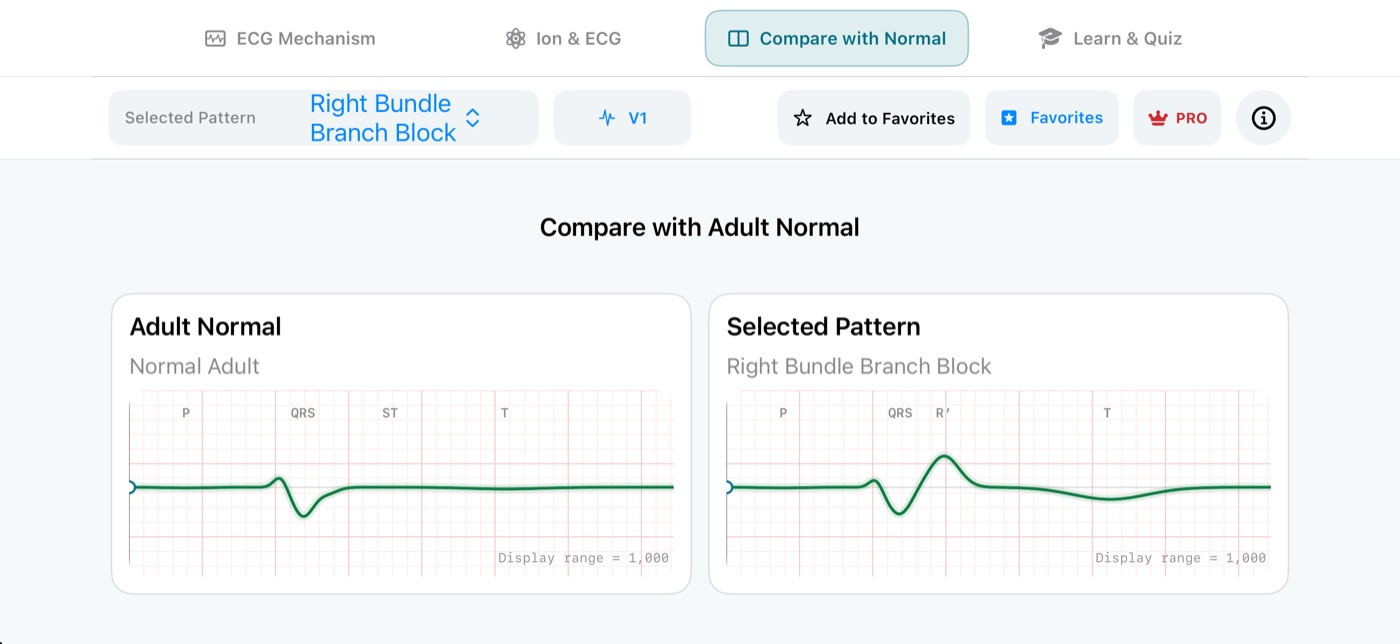
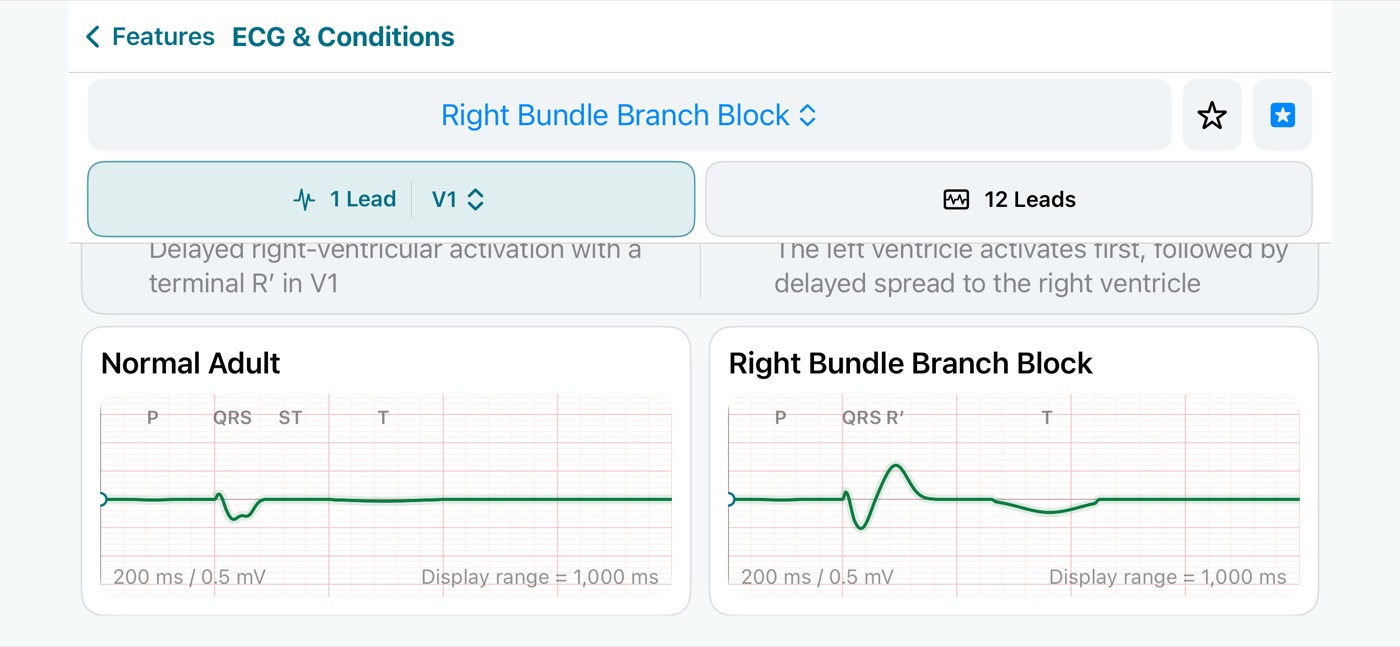
Update ECG Vector website for ion and condition learning

diff --git a/ja/apps/ecg-vector/support/index.html b/ja/apps/ecg-vector/support/index.html
@@ -20,16 +20,16 @@
   <a class="skip-link" href="#main">本文へ移動</a>
   <header class="site-header"><nav class="nav-wrap" aria-label="メインナビゲーション"><a class="brand" href="/ja/"><span class="brand-mark">N</span><span>Nakano Lab Software</span></a><div class="nav-links"><a href="/ja/apps/ecg-vector/">ECG Vector</a><a href="https://apps.apple.com/app/ecg-vector/id6798066790">App Store</a><a href="/ja/apps/ecg-vector/privacy/">プライバシー</a><a class="language-link" href="/en/apps/ecg-vector/support/" lang="en" data-language-link="en">EN</a></div></nav></header>
   <main id="main" class="container document-layout">
-    <aside class="doc-nav" aria-label="ページ内目次"><strong>このページ</strong><a href="#start">基本操作</a><a href="#reading">3Dの読み方</a><a href="#breakdown">波形分解</a><a href="#display">表示と視点</a><a href="#ion">イオンと心電図</a><a href="#pro">無料版とPro</a><a href="#troubleshooting">よくある問題</a><a href="#contact">お問い合わせ</a></aside>
+    <aside class="doc-nav" aria-label="ページ内目次"><strong>このページ</strong><a href="#start">基本操作</a><a href="#reading">3Dの読み方</a><a href="#breakdown">波形分解・2誘導比較</a><a href="#display">表示と視点</a><a href="#ion">イオンと心電図</a><a href="#conditions">病態と心電図</a><a href="#pro">無料版とPro</a><a href="#troubleshooting">よくある問題</a><a href="#contact">お問い合わせ</a></aside>
     <article class="document">
       <p class="breadcrumbs"><a href="/ja/">Nakano Lab Software</a> / <a href="/ja/apps/ecg-vector/">ECG Vector</a> / サポート</p>
       <h1>ECG Vector<br>サポート</h1>
-      <p class="updated">更新日: 2026年9月24日 · 対応: macOS 14以降／iOS・iPadOS 17以降</p>
+      <p class="updated">更新日: 2026年10月4日 · 対応: macOS 14以降／iOS・iPadOS 17以降</p>
       <p>ECG Vectorは、心臓内の電気活動と各誘導に記録される波形の関係を学ぶための教育用シミュレータです。診断、治療判断、患者固有の波形予測には使用できません。</p>
 
       <h2 id="start">1. 基本操作</h2>
       <ol>
-        <li>上部の「心電図のしくみ」「イオンと心電図」「正常と比較」「学習・クイズ」から、学びたい画面を選びます。</li>
+        <li>「心電図のしくみ」「イオンと心電図」「病態と心電図」「学習・クイズ」から、学びたい画面を選びます。Mac・iPadは上部のタブ、iPhoneは起動時の機能一覧から選択します。iPhoneでは左上の「機能一覧」で戻れます。</li>
         <li>「心電図のしくみ」では、波形モデルから成人正常、右脚ブロック、小児正常、または学びたい典型波形を選びます。</li>
         <li>12誘導一覧の波形カードを選ぶと、その誘導が3Dの誘導軸と拡大波形へ反映されます。</li>
         <li>再生ボタンで開始し、速度メニューから0.05〜1.0倍を選びます。時間バーを動かすと再生が一時停止し、任意の時相を確認できます。</li>
@@ -43,29 +43,37 @@
       <h3>微小双極子と心起電力</h3>
       <p>波面の両側には相対的な細胞外電位の「−」と「＋」が生じます。局所的な矢印は−から＋へ向かう微小双極子です。同方向の成分は加算され、反対方向は相殺され、残った橙色の矢印がその時刻の心起電力 M(t) になります。</p>
       <h3>誘導軸と投影</h3>
-      <p>灰青色の矢印は誘導のマイナス極からプラス極へ向かう誘導軸 L、緑色の矢印はM(t)をLへ投影した成分です。M(t)がプラス極側を向くと波形は上向き、マイナス極側を向くと下向きになります。</p>
+      <p>誘導軸 Lはマイナス極からプラス極へ向かいます。投影矢印は心起電力 M(t) の誘導軸方向の成分で、プラス極側なら波形は上向き、反対側なら下向きです。矢印の長さは単位方向への射影の大きさ、波形電位 V(t) = M(t) · L は誘導の感度も反映した値です。2誘導比較では、2つの誘導軸と投影を色で区別できます。</p>
       <h3>収縮</h3>
       <p>心房・心室の短縮と小さなねじれは機械的収縮です。収縮は電気的脱分極より少し遅れて起こりますが、それ自体を心電図電位へ別成分として加えてはいません。</p>
 
       <h2 id="breakdown">3. 波形分解と2誘導比較</h2>
-      <p>「波形を分解」を選ぶと、ひとつの起電力成分を現在の誘導と比較誘導へ投影した破線、および全成分を合計した計測波形を表示します。成分選択ボタンから心房興奮、中隔興奮、心室主興奮、遅延成分、再分極などを切り替えられます。</p>
+      <p>「心電図のしくみ」の上部で「1誘導」「2誘導」「12誘導」を切り替えます。「1誘導」では選択した誘導を拡大し、波形分解で起電力成分を選べます。「2誘導」では2つの誘導を選び、同じ時刻の波形と3Dの誘導軸・投影を見比べます。「12誘導」は同期した標準12誘導の一覧です。</p>
+      <p>波形分解では、破線が選択成分、実線が全成分を合計した波形です。心房興奮、中隔興奮、心室主興奮、遅延成分、再分極などを切り替えて、どの成分が波形を作るか確認できます。</p>
       <p>山の数は興奮の回数ではありません。各時刻のベクトルが誘導軸へどの向き・どの強さで投影されたかの時間変化です。同じ電気活動でも、誘導軸が変わると1峰性、2峰性、陽性、陰性の違いが生じます。</p>
 
       <h2 id="display">4. 表示項目、断面、透明度</h2>
       <p>3Dパネル内の「表示」を開くと、断面／外観、心臓、内部構造、刺激伝導系、電気活動、機械的収縮、誘導計測、電極などを個別に表示・非表示できます。透明度も同じパネルで調整できます。</p>
       <ul><li>初期状態は断面で、内部構造と電極は非表示です。</li><li>凡例を選ぶと、対応する3D要素を強調できます。</li><li>方位コンパスの右・左・上・下・前・後は患者基準です。</li><li>正面の電極図は患者と向かい合った図なので、画面左が患者右、画面右が患者左です。</li></ul>
+      <p>標準12誘導にはRA・LA・LL・RLとV1〜V6の10電極を使います。RLは中性電極で、標準誘導の電位差やWilson中心電極の計算には加えません。本アプリではRLを移動しても理想化した波形は変わらず、実機の雑音除去回路は再現していません。</p>
 
       <h2 id="ion">5. イオンと心電図</h2>
-      <p>「イオンと心電図」では、ガイド例を選ぶとイオン電流または細胞外電解質の変化、心室活動電位、PR・QRS・QTなどの指標、選択誘導の波形が一緒に更新されます。たとえば「後期ナトリウム電流増加」では、活動電位の延長からQT延長へ至る流れを確認できます。</p>
-      <p>各表示は因果関係を理解するための単純化された教育用モデルであり、個別の薬剤効果、診断、治療判断を予測するものではありません。</p>
+      <p>「プリセットを選択」から代表例を選びます。たとえば「遅延Na電流増加」では、活動電位とQTが長くなるモデルの流れを確認できます。Proでは主要イオン電流と細胞外K⁺・イオン化Ca²⁺・Na⁺・H⁺（pH）を自由に調整し、1誘導／12誘導で基準と変更後を比較できます。iPhoneでも心電図を表示したまま操作できます。</p>
+      <p>「基準との違い」は全設定を合わせた数値の結果と、各項目を単独で変えたときの作用を分けて示します。複数の設定では作用が相殺することがあります。心電図の下にある「病気・病態とのつながり」で、低Ca²⁺や高K⁺などの代表例との関連を確認できます。高K⁺例にはP波平低化・PR延長も含みます。</p>
+      <p>「定量モデルの出力」は、Nernst式などによる細胞レベルの計算値と、全心臓の心電図への教育用推定を分けています。通常の臨床的Na⁺範囲では心電図への直接作用が小さく、波形がほとんど変わらない場合があります。pH単独の再分極作用は一定方向へ換算せず、未評価としています。</p>
+      <p>このモデルは患者固有の予測ではなく、表示する「モデル範囲」も生理学的正常範囲や信頼区間ではありません。計算の制限や教育目的の注意事項は、アプリの情報ボタンから「このアプリについて」で確認できます。</p>
 
-      <h2 id="pro">6. 無料版とECG Vector Pro</h2>
-      <p>無料版では、成人正常と右脚ブロック、標準12誘導、固定された標準電極位置、正常比較・クイズの体験、お気に入り、イオンと心電図の4つのガイド例を利用できます。</p>
-      <p>ECG Vector Proは買い切りの非消耗型購入です。イオン電流・電解質の自由調整と同期12誘導表示、小児・その他の典型的な臨床波形、任意誘導、電極位置編集と誤配置、正常比較・クイズ全編を解放します。サブスクリプションではありません。</p>
+      <h2 id="conditions">6. 病態と心電図</h2>
+      <p>病態や参考例を選び、成人正常と「1誘導」または「12誘導」で比較します。波形上の特徴とその原因の説明を読み、同じ時間軸でどこが違うかを確認してください。12誘導では左列にI・II・III・aVR・aVL・aVF、右列にV1〜V6を並べています。</p>
+      <p>小児正常は5歳頃の代表例です。発熱例は洞性頻脈、高BMI体格は集団で見られる体格の傾向を示す参考例で、体温や体重だけから個人の心電図を予測するものではありません。病態例も実患者の診断基準ではありません。</p>
+
+      <h2 id="pro">7. 無料版とECG Vector Pro</h2>
+      <p>無料版では、成人正常と右脚ブロック、標準12誘導、固定された標準電極位置、「病態と心電図」・クイズの体験、お気に入り、イオンと心電図の4つのガイド例を利用できます。</p>
+      <p>ECG Vector Proは買い切りの非消耗型購入です。イオン電流・細胞外イオン・pHの自由調整と同期12誘導表示、小児・その他の病態例、任意誘導、電極位置編集と誤配置、比較・クイズ全編を解放します。サブスクリプションではありません。</p>
       <h3>購入する</h3><ol><li>上部の王冠／「PRO」を選びます。</li><li>Appleから価格が読み込まれるまで待ちます。</li><li>価格付き購入ボタンを選び、Appleの購入画面を完了します。</li></ol>
       <h3>購入を復元する</h3><p>購入時と同じApple AccountでサインインしたMac、iPhone、iPadからPro画面を開き、「購入を復元」を選びます。端末間の反映に少し時間がかかる場合があります。</p>
 
-      <h2 id="troubleshooting">7. よくある問題</h2>
+      <h2 id="troubleshooting">8. よくある問題</h2>
       <h3>購入ボタンがなく、「購入情報を再読み込み」と「購入を復元」だけが表示される</h3>
       <p>StoreKitが製品情報を取得できていない状態です。通信を確認し、App StoreへApple Accountでサインインしていること、アプリが最新であること、購入が利用可能な国・地域であることを確認してください。少し待ってから「購入情報を再読み込み」を選びます。TestFlight版の購入はAppleのテスト環境で処理されます。</p>
       <h3>購入済みなのにProが有効にならない</h3><p>購入時と同じApple Accountを確認し、「購入を復元」を実行してください。その後アプリを終了して開き直します。購入完了が保留中の場合は、Apple側の承認後に反映されます。</p>
@@ -73,7 +81,7 @@
       <h3>表示パネルの上側を選べない</h3><p>アプリを最新バージョンへ更新してください。パネルは画面内に固定され、内容をスクロールできます。改善しない場合は端末の表示拡大設定と画面の向きを添えてお問い合わせください。</p>
       <h3>言語を変更したい</h3><p>ECG Vectorは端末またはアプリごとの言語設定に従います。設定アプリの「ECG Vector」→「言語」から、対応する言語を選んでください。</p>
 
-      <h2 id="contact">8. お問い合わせ</h2>
+      <h2 id="contact">9. お問い合わせ</h2>
       <p>問題を報告するときは、患者情報や個人情報を含めず、ECG Vectorのバージョンとビルド、端末とOS、選択した波形モデルと誘導、問題が起きるまでの操作、表示されたメッセージをお知らせください。</p>
       <div class="contact-box"><strong>ECG Vector Support</strong><br>運営者: Takashi Nakano<br>メール: <a href="mailto:nakano.prog@gmail.com">nakano.prog@gmail.com</a></div>
     </article>

diff --git a/en/apps/ecg-vector/support/index.html b/en/apps/ecg-vector/support/index.html
@@ -20,48 +20,56 @@
   <a class="skip-link" href="#main">Skip to content</a>
   <header class="site-header"><nav class="nav-wrap" aria-label="Main navigation"><a class="brand" href="/en/"><span class="brand-mark">N</span><span>Nakano Lab Software</span></a><div class="nav-links"><a href="/en/apps/ecg-vector/">ECG Vector</a><a href="https://apps.apple.com/app/ecg-vector/id6798066790">App Store</a><a href="/en/apps/ecg-vector/privacy/">Privacy</a><a class="language-link" href="/ja/apps/ecg-vector/support/" lang="ja" data-language-link="ja">日本語</a></div></nav></header>
   <main id="main" class="container document-layout">
-    <aside class="doc-nav" aria-label="On this page"><strong>On this page</strong><a href="#start">Getting started</a><a href="#reading">Reading the 3D view</a><a href="#breakdown">Waveform breakdown</a><a href="#display">Display and view</a><a href="#ion">Ion &amp; ECG</a><a href="#pro">Free and Pro</a><a href="#troubleshooting">Troubleshooting</a><a href="#contact">Contact</a></aside>
+    <aside class="doc-nav" aria-label="On this page"><strong>On this page</strong><a href="#start">Getting started</a><a href="#reading">Reading the 3D view</a><a href="#breakdown">Breakdown and two-lead comparison</a><a href="#display">Display and view</a><a href="#ion">Ion &amp; ECG</a><a href="#conditions">ECG &amp; Conditions</a><a href="#pro">Free and Pro</a><a href="#troubleshooting">Troubleshooting</a><a href="#contact">Contact</a></aside>
     <article class="document">
       <p class="breadcrumbs"><a href="/en/">Nakano Lab Software</a> / <a href="/en/apps/ecg-vector/">ECG Vector</a> / Support</p>
       <h1>ECG Vector<br>Support</h1>
-      <p class="updated">Updated September 24, 2026 · Requires macOS 14+ or iOS/iPadOS 17+</p>
+      <p class="updated">Updated October 4, 2026 · Requires macOS 14+ or iOS/iPadOS 17+</p>
       <p>ECG Vector is an educational simulator for learning how electrical activity in the heart relates to the waveform recorded by each lead. Do not use it for diagnosis, treatment decisions, or patient-specific waveform prediction.</p>
 
       <h2 id="start">1. Getting started</h2>
-      <ol><li>Choose ECG Mechanism, Ion &amp; ECG, Compare with Normal, or Learn &amp; Quiz from the main tabs.</li><li>In ECG Mechanism, choose Adult Normal, Right Bundle Branch Block, Pediatric Normal, or another typical pattern under Waveform Model.</li><li>Select a waveform card in the 12-lead overview. That lead becomes the 3D lead axis and enlarged trace.</li><li>Select Play, then choose 0.05× to 1.0× under Speed. Dragging the timeline pauses playback and moves every waveform cursor to the selected time.</li><li>Use the two 10 ms controls to step backward or forward while paused.</li><li>Drag the 3D view to rotate it, and pinch or scroll to zoom. Select Reset View to return to the standard orientation.</li></ol>
+      <ol><li>Choose ECG Mechanism, Ion &amp; ECG, ECG &amp; Conditions, or Learn &amp; Quiz. Use the top tabs on Mac and iPad, or the feature menu shown at launch on iPhone. On iPhone, the upper-left back button returns to the feature menu.</li><li>In ECG Mechanism, choose Adult Normal, Right Bundle Branch Block, Pediatric Normal, or another typical pattern under Waveform Model.</li><li>Select a waveform card in the 12-lead overview. That lead becomes the 3D lead axis and enlarged trace.</li><li>Select Play, then choose 0.05× to 1.0× under Speed. Dragging the timeline pauses playback and moves every waveform cursor to the selected time.</li><li>Use the two 10 ms controls to step backward or forward while paused.</li><li>Drag the 3D view to rotate it, and pinch or scroll to zoom. Select Reset View to return to the standard orientation.</li></ol>
 
       <h2 id="reading">2. Reading the 3D view</h2>
       <h3>Excitation and repolarization</h3><p>The yellow luminous trail approximates the depolarization wavefront. The pink trail approximates ventricular repolarization—the electrical recovery associated with the T wave, not a second excitation.</p>
       <h3>Microdipoles and the cardiac vector</h3><p>Relative extracellular − and + regions appear across a wavefront. Each local arrow points from − to + and represents a microdipole. Components in the same direction add, opposing components cancel, and the remaining orange arrow is the cardiac vector M(t).</p>
-      <h3>Lead axis and projection</h3><p>The blue-gray arrow is lead axis L, pointing from the negative to the positive electrode. The green arrow is the projection of M(t) onto L. A vector toward the positive electrode produces an upward deflection; a vector toward the negative electrode produces a downward deflection.</p>
+      <h3>Lead axis and projection</h3><p>Lead axis L points from the negative to the positive electrode. The projection arrow shows the component of M(t) along that axis: toward the positive electrode gives an upward deflection, and the opposite direction gives a downward deflection. Its length is the magnitude of the projection onto the unit direction; ECG voltage V(t) = M(t) · L also includes lead sensitivity. Two-lead comparison uses different colors for each lead axis and its projection.</p>
       <h3>Contraction</h3><p>Shortening and slight twisting of the atria and ventricles represent mechanical contraction. Contraction follows electrical depolarization with a delay and is not added as a separate ECG voltage component.</p>
 
       <h2 id="breakdown">3. Waveform breakdown and two-lead comparison</h2>
-      <p>Select Break Down Waveform to project one source component into the current and comparison leads. Dashed traces show the selected component; solid traces show the recorded sum. Use the component selector to move among atrial excitation, septal excitation, main ventricular excitation, delayed components, and repolarization.</p>
+      <p>At the top of ECG Mechanism, choose the one-lead, two-lead, or 12-lead mode. One-lead mode enlarges the selected trace and offers component breakdown. Two-lead mode compares the waveforms and 3D lead-axis projections at the same time. The 12-lead mode shows synchronized standard ECG traces.</p>
+      <p>In component breakdown, dashed traces show the selected component and solid traces show the sum. Select atrial, septal, main ventricular, delayed, or repolarization components to explore their contribution to the waveform.</p>
       <p>The number of peaks is not the number of excitations. It is the time-varying result of projecting each vector onto a lead axis. The same electrical activity can therefore be monophasic, biphasic, positive, or negative in different leads.</p>
 
       <h2 id="display">4. Display items, cutaway, and opacity</h2>
       <p>Open Display inside the 3D panel to switch between Cutaway and Exterior and independently show or hide the heart, internal structures, conduction system, electrical activity, mechanical contraction, lead measurement, and electrodes. Heart opacity is in the same panel.</p>
       <ul><li>The default is Cutaway, with internal structures and electrodes hidden.</li><li>Selecting a legend entry highlights the matching element in 3D.</li><li>The orientation compass uses the patient’s right, left, superior, inferior, anterior, and posterior directions.</li><li>The front electrode map faces the patient: screen left is the patient’s right.</li></ul>
+      <p>A standard 12-lead ECG uses 10 electrodes: RA, LA, LL, RL, and V1–V6. RL is the neutral electrode, not part of the standard lead-voltage differences or Wilson central terminal. Moving RL does not change the idealized ECG in this app; the instrument’s noise-rejection circuitry is not simulated.</p>
 
       <h2 id="ion">5. Ion &amp; ECG</h2>
-      <p>Choose a guided example to update an ion current or extracellular electrolyte, the ventricular action potential, intervals such as PR, QRS, and QT, and the selected lead waveform together. For example, Increased Late Sodium shows the path from a prolonged action potential to QT prolongation.</p>
-      <p>These displays are simplified educational models for understanding causal relationships. They do not predict an individual drug effect, diagnosis, or treatment decision.</p>
+      <p>Choose a representative example from the preset selector. Increased Late Sodium, for example, shows the modeled link between a longer action potential and a longer QT. Pro allows free adjustment of major currents and extracellular K⁺, ionized Ca²⁺, Na⁺, and H⁺ (pH), with baseline and modified traces in one or 12 leads. The ECG stays visible while you adjust settings on iPhone.</p>
+      <p>Changes from baseline separates the combined numerical result from the effect of changing each factor alone. Multiple settings can offset one another. The condition links below the ECG explain representative low-calcium, high-potassium, and other examples. The high-potassium example also includes reduced P-wave amplitude and a longer PR.</p>
+      <p>Quantitative model output separates cellular calculations, including Nernst equilibrium potentials, from educational whole-heart ECG estimates. The direct ECG effect of Na⁺ alone is generally small within usual clinical ranges, so the trace may change very little. The direct repolarization effect of pH alone is not assigned a fixed direction and is marked as unmodeled.</p>
+      <p>This is not a patient-specific prediction model. The displayed model ranges are neither physiological normal ranges nor confidence intervals. Use the app’s information button to read About for the modeling limitations and educational-use notice.</p>
 
-      <h2 id="pro">6. Free access and ECG Vector Pro</h2>
+      <h2 id="conditions">6. ECG &amp; Conditions</h2>
+      <p>Choose a condition or reference example, then compare it with Adult Normal in one or 12 leads. Read the waveform features and their mechanisms while using the common time scale to identify differences. In the 12-lead comparison, I, II, III, aVR, aVL, and aVF form the left column, and V1–V6 form the right.</p>
+      <p>Pediatric Normal is a representative child around age five. The fever example shows sinus tachycardia, and the higher-BMI example illustrates population-level body-habitus tendencies—not a prediction from an individual’s temperature or weight alone. Condition examples are not diagnostic criteria.</p>
+
+      <h2 id="pro">7. Free access and ECG Vector Pro</h2>
       <p>The free version includes Adult Normal and Right Bundle Branch Block, all 12 standard ECG leads, fixed standard electrode positions, comparison and quiz samples, favorites, and four guided Ion &amp; ECG examples.</p>
-      <p>ECG Vector Pro is a one-time non-consumable purchase, not a subscription. It unlocks free adjustment of ion currents and electrolytes with synchronized 12-lead response, pediatric and other clinical patterns, custom leads, electrode editing and misplacement presets, and the complete comparison and quiz libraries.</p>
+      <p>ECG Vector Pro is a one-time non-consumable purchase, not a subscription. It unlocks free adjustment of ion currents, extracellular ions, and pH with synchronized 12-lead response, pediatric and other condition examples, custom leads, electrode editing and misplacement presets, and the complete comparison and quiz libraries.</p>
       <h3>Purchase Pro</h3><ol><li>Select the crown or PRO control in the top bar.</li><li>Wait for Apple to load the localized price.</li><li>Select the price button and complete Apple’s purchase sheet.</li></ol>
       <h3>Restore a purchase</h3><p>On a Mac, iPhone, or iPad signed in with the Apple Account used for purchase, open the Pro screen and select Restore Purchases. Syncing across devices can take a short time.</p>
 
-      <h2 id="troubleshooting">7. Troubleshooting</h2>
+      <h2 id="troubleshooting">8. Troubleshooting</h2>
       <h3>Only Reload Purchase Information and Restore Purchases are shown</h3><p>StoreKit has not loaded the product. Check your connection, confirm that the App Store is signed in, update ECG Vector, and confirm that the purchase is available in your country or region. Wait briefly, then select Reload Purchase Information. Purchases in TestFlight builds are handled in Apple’s test environment.</p>
       <h3>Pro is not active after purchase</h3><p>Confirm that you are using the same Apple Account, select Restore Purchases, then quit and reopen the app. A pending purchase activates after Apple approves it.</p>
       <h3>The 3D view is slow</h3><p>Open Display and hide internal structures, electrodes, or other overlays you do not need. Close the explanation and other demanding apps, then reopen ECG Vector.</p>
       <h3>The top items in the Display panel cannot be selected</h3><p>Update to the latest app version. The panel should remain fixed on screen while its contents scroll. If the issue remains, contact support with the device model, display zoom, and orientation.</p>
       <h3>Change the interface language</h3><p>ECG Vector follows the device or per-app language. Open Settings → ECG Vector → Language and choose a supported language.</p>
 
-      <h2 id="contact">8. Contact</h2>
+      <h2 id="contact">9. Contact</h2>
       <p>Do not include patient or personal information in a report. Include the ECG Vector version and build, device and OS, selected waveform model and lead, steps leading to the issue, and any message shown.</p>
       <div class="contact-box"><strong>ECG Vector Support</strong><br>Operator: Takashi Nakano<br>Email: <a href="mailto:nakano.prog@gmail.com">nakano.prog@gmail.com</a></div>
     </article>

diff --git a/ja/apps/ecg-vector/index.html b/ja/apps/ecg-vector/index.html
@@ -11,9 +11,9 @@
   </script>
   <meta charset="utf-8">
   <meta name="viewport" content="width=device-width, initial-scale=1">
-  <meta name="description" content="ECG Vectorは、3D心臓と12誘導心電図に加え、イオン電流・電解質から活動電位、QT時間、各誘導波形までをつなげて学べるMac・iPhone・iPad対応の教育用シミュレータです。">
+  <meta name="description" content="ECG Vectorは、3D心臓と12誘導心電図、イオン電流・細胞外イオンと活動電位、病態ごとの波形の特徴と原因をつなげて学ぶMac・iPhone・iPad対応の教育用シミュレータです。">
   <meta property="og:title" content="ECG Vector — 心電図学習シミュレータ">
-  <meta property="og:description" content="3D心臓、イオンチャネル、正常比較、クイズを通して、心電図がそう見える理由を学べます。">
+  <meta property="og:description" content="心電図のしくみ、イオンと心電図、病態と心電図、学習・クイズ。波形の違いと、その理由を4つの視点で学べます。">
   <meta property="og:type" content="website">
   <meta property="og:url" content="https://nakano-lab.github.io/ja/apps/ecg-vector/">
   <meta property="og:image" content="https://nakano-lab.github.io/assets/images/ecg-vector/ja/mac-simulation.jpg">
@@ -44,21 +44,21 @@
           <div class="meta-row"><span class="tag">macOS 14+</span><span class="tag">iPhone</span><span class="tag">iPad</span><span class="tag">iOS 17+</span><span class="tag">10言語対応</span></div>
         </div>
       </div>
-      <p class="lead">心臓内の興奮と心起電力ベクトル、イオン電流と活動電位、正常波形との違い、そして学習クイズを、4つの主要画面でつなげて学ぶ教育用シミュレータです。</p>
+      <p class="lead">心電図の形には、理由があります。3D心臓の興奮、イオンと活動電位、病態ごとの波形の特徴をつなげ、クイズで理解を確かめる教育用シミュレータです。</p>
       <div class="button-row"><a class="button primary" href="https://apps.apple.com/app/ecg-vector/id6798066790">App Storeで入手 <span aria-hidden="true">↗</span></a><a class="button" href="#features">機能を見る <span aria-hidden="true">↓</span></a><a class="button" href="/ja/apps/ecg-vector/support/">使い方・サポート</a></div>
     </section>
 
     <section class="section tinted" id="features">
       <div class="container">
-        <div class="section-head reveal"><p class="eyebrow">Four workspaces</p><h2 class="section-title">心電図のしくみを、4つの視点で。</h2><p class="section-copy">3Dの電気活動からイオンチャネル、正常比較、クイズまで、主要機能を同じメイン画面のタブで切り替えられます。</p></div>
+        <div class="section-head reveal"><p class="eyebrow">Four workspaces</p><h2 class="section-title">心電図のしくみを、4つの視点で。</h2><p class="section-copy">Mac・iPadでは上部のタブから、iPhoneでは起動時の機能一覧から、学びたい画面を選べます。</p></div>
         <div class="feature-grid">
           <article class="feature reveal"><span class="feature-number">01</span><h3>心電図のしくみ</h3><p>回転できる3D心臓で、興奮・再分極、心起電力、誘導軸への投影、12誘導波形を同じ時間軸に同期。1誘導の成分分解や2誘導比較で、波形がそう見える理由をたどれます。</p></article>
-          <article class="feature reveal"><span class="feature-number">02</span><h3>イオンと心電図</h3><p>ナトリウム・カルシウム・カリウム電流や細胞外電解質の変化が、心室活動電位、PR・QRS・QTなどの指標、選択誘導の波形へどう伝わるかを因果の流れで確認できます。</p></article>
-          <article class="feature reveal"><span class="feature-number">03</span><h3>正常と比較</h3><p>成人正常と右脚ブロックなどの典型波形を並べ、同じ誘導・同じ時間軸で比較。変化した区間と、その背景にある興奮伝播を見比べられます。</p></article>
-          <article class="feature reveal"><span class="feature-number">04</span><h3>学習・クイズ</h3><p>波形の特徴からモデルを見分ける問題で理解を確認。解答後は正常との差や注目すべき所見を、そのままシミュレーションで復習できます。</p></article>
-          <article class="feature reveal"><span class="feature-number">05</span><h3>正常・小児・典型波形</h3><p>成人正常、小児正常、心房細動、右脚・左脚ブロック、軸偏位、左室肥大、ST上昇などの単純化した典型例を切り替えられます。</p></article>
+          <article class="feature reveal"><span class="feature-number">02</span><h3>イオンと心電図</h3><p>主要なイオン電流と、細胞外K⁺・イオン化Ca²⁺・Na⁺・H⁺（pH）を調整。心室筋活動電位と体表心電図を見ながら「基準との違い」と病態とのつながりを確認できます。細胞の計算値と全心臓の推定値も区別して表示します。</p></article>
+          <article class="feature reveal"><span class="feature-number">03</span><h3>病態と心電図</h3><p>成人正常と代表的な病態を、1誘導または12誘導で並べて比較。共通の時間軸で波形の特徴を見つけ、どこが違うのか、なぜ変わるのかを解説で理解できます。</p></article>
+          <article class="feature reveal"><span class="feature-number">04</span><h3>学習・クイズ</h3><p>12誘導とリズム波形から代表的なモデルを見分け、理解を確認。解答後は所見とその仕組みを読み、シミュレーションで復習できます。</p></article>
+          <article class="feature reveal"><span class="feature-number">05</span><h3>病態と生理的な違い</h3><p>脚ブロック、心房細動、左室肥大のST・T変化、局在ST上昇などの模式例に加え、小児正常（5歳頃）、発熱時の洞性頻脈、高BMI体格の参考例も比較できます。</p></article>
           <article class="feature reveal"><span class="feature-number">06</span><h3>スロー再生とコマ送り</h3><p>0.05倍まで速度を落とし、一時停止、時間軸スクラブ、10 msコマ送りに対応。表示項目と心臓の透明度も同じパネルから調整できます。</p></article>
-          <article class="feature reveal"><span class="feature-number">07</span><h3>Mac・iPhone・iPad</h3><p>MacとiPadでは一覧性を生かし、iPhoneでは3D、解説、波形を同時に確認しやすい構成へ。日本語、英語を含む主要10言語に対応します。</p></article>
+          <article class="feature reveal"><span class="feature-number">07</span><h3>Mac・iPhone・iPad</h3><p>文字とボタンを大きくし、各画面の配置を整理。iPhoneでは機能一覧と戻るボタンで移動し、イオンを調整しながら心電図を確認できます。日本語・英語を含む10言語に対応します。</p></article>
         </div>
       </div>
     </section>
@@ -68,8 +68,8 @@
         <div class="section-head reveal"><p class="eyebrow">In the app</p><h2 class="section-title">3D、解説、波形を同じ視界に。</h2></div>
         <div class="screenshot-grid">
           <figure class="shot reveal"><img src="/assets/images/ecg-vector/ja/mac-simulation.jpg" alt="Mac版ECG Vectorで3D心臓、誘導軸、波形を表示している画面" width="1600" height="1000" loading="lazy"><figcaption>Mac — 3D心臓と選択誘導の波形を同期</figcaption></figure>
-          <figure class="shot portrait reveal"><img src="/assets/images/ecg-vector/ja/ipad-breakdown.jpg" alt="iPad版ECG Vectorでイオン電流から活動電位と心電図の変化を表示している画面" width="900" height="1200" loading="lazy"><figcaption>iPad — イオン電流から活動電位・QT・心電図へ</figcaption></figure>
-          <figure class="shot reveal"><img src="/assets/images/ecg-vector/ja/iphone-twelve-leads.jpg" alt="iPhone版ECG Vectorで右脚ブロックを成人正常と比較している画面" width="1400" height="644" loading="lazy"><figcaption>iPhone — 典型波形を成人正常と並べて比較</figcaption></figure>
+          <figure class="shot portrait reveal"><img src="/assets/images/ecg-vector/ja/ipad-breakdown.jpg" alt="iPad版のイオンと心電図で、遅延Na電流増加による活動電位・QTの変化と病態とのつながりを表示している画面" width="900" height="1200" loading="lazy"><figcaption>iPad — イオンの調整、基準との差、病態とのつながり</figcaption></figure>
+          <figure class="shot reveal"><img src="/assets/images/ecg-vector/ja/iphone-twelve-leads.jpg" alt="iPhone版の病態と心電図で、右脚ブロックと成人正常の波形および所見の説明を表示している画面" width="1400" height="647" loading="lazy"><figcaption>iPhone — 波形を比べ、特徴とその理由を学ぶ</figcaption></figure>
         </div>
       </div>
     </section>
@@ -77,8 +77,8 @@
     <section class="section tinted">
       <div class="container">
         <div class="split">
-          <article class="info-card reveal"><p class="eyebrow">Free</p><h3>主要機能を無料で体験</h3><p>成人正常と右脚ブロック、標準12誘導、固定された標準電極位置、正常比較・クイズの体験、お気に入り、イオンと心電図の4つのガイド例を利用できます。</p></article>
-          <article class="info-card reveal"><p class="eyebrow">ECG Vector Pro</p><h3>買い切りで学習範囲を拡張</h3><p>サブスクリプションではありません。イオン電流・電解質の自由調整と同期12誘導表示、小児・その他の典型疾患、任意誘導、電極位置編集と誤配置、正常比較・クイズ全編を解放します。</p></article>
+          <article class="info-card reveal"><p class="eyebrow">Free</p><h3>主要機能を無料で体験</h3><p>成人正常と右脚ブロック、標準12誘導、固定された標準電極位置、「病態と心電図」・クイズの体験、お気に入り、イオンと心電図の4つのガイド例を利用できます。</p></article>
+          <article class="info-card reveal"><p class="eyebrow">ECG Vector Pro</p><h3>買い切りで学習範囲を拡張</h3><p>サブスクリプションではありません。イオン電流・細胞外イオン・pHの自由調整と同期12誘導表示、小児・その他の病態例、任意誘導、電極位置編集と誤配置、比較・クイズ全編を解放します。</p></article>
         </div>
         <div class="button-row"><a class="button primary" href="https://apps.apple.com/app/ecg-vector/id6798066790">App Storeで入手 <span aria-hidden="true">↗</span></a><a class="button" href="/ja/apps/ecg-vector/support/">サポート</a><a class="button" href="/ja/apps/ecg-vector/privacy/">プライバシーポリシー</a></div>
       </div>

diff --git a/en/apps/ecg-vector/index.html b/en/apps/ecg-vector/index.html
@@ -11,9 +11,9 @@
   </script>
   <meta charset="utf-8">
   <meta name="viewport" content="width=device-width, initial-scale=1">
-  <meta name="description" content="ECG Vector is an educational simulator for Mac, iPhone, and iPad that connects a 3D heart and 12-lead ECG with ion currents, action potentials, QT changes, normal comparison, and quizzes.">
+  <meta name="description" content="ECG Vector is an educational simulator for Mac, iPhone, and iPad connecting a 3D heart and 12-lead ECG with ion currents, extracellular ions, action potentials, and the features and mechanisms of representative ECG patterns.">
   <meta property="og:title" content="ECG Vector — 3D Cardiac Lead Simulator">
-  <meta property="og:description" content="Learn why an ECG looks the way it does through a 3D heart, ion channels, normal comparison, and quizzes.">
+  <meta property="og:description" content="ECG Mechanism, Ion &amp; ECG, ECG &amp; Conditions, and Learn &amp; Quiz: explore waveform differences and the reasons behind them.">
   <meta property="og:type" content="website">
   <meta property="og:url" content="https://nakano-lab.github.io/en/apps/ecg-vector/">
   <meta property="og:image" content="https://nakano-lab.github.io/assets/images/ecg-vector/en/mac-simulation.jpg">
@@ -40,21 +40,21 @@
         <img class="product-icon" src="/assets/images/ecg-vector/icon.png" alt="ECG Vector icon" width="512" height="512">
         <div><h1 class="page-title">ECG Vector</h1><p class="page-subtitle">3D Cardiac Lead Simulator</p><div class="meta-row"><span class="tag">macOS 14+</span><span class="tag">iPhone</span><span class="tag">iPad</span><span class="tag">iOS 17+</span><span class="tag">10 languages</span></div></div>
       </div>
-      <p class="lead">Connect excitation and cardiac vectors, ion currents and action potentials, comparison with normal, and learning quizzes across four integrated workspaces.</p>
+      <p class="lead">Every ECG shape has a reason. Connect 3D cardiac activation, ions and action potentials, and the features of representative ECG patterns—then check your understanding with quizzes.</p>
       <div class="button-row"><a class="button primary" href="https://apps.apple.com/app/ecg-vector/id6798066790">Download on the App Store <span aria-hidden="true">↗</span></a><a class="button" href="#features">Explore the features <span aria-hidden="true">↓</span></a><a class="button" href="/en/apps/ecg-vector/support/">Help &amp; support</a></div>
     </section>
 
     <section class="section tinted" id="features">
       <div class="container">
-        <div class="section-head reveal"><p class="eyebrow">Four workspaces</p><h2 class="section-title">Understand the ECG from four angles.</h2><p class="section-copy">Move between 3D cardiac activity, ion channels, comparison with normal, and quizzes from the main workspace tabs.</p></div>
+        <div class="section-head reveal"><p class="eyebrow">Four workspaces</p><h2 class="section-title">Understand the ECG from four angles.</h2><p class="section-copy">Choose a workspace from the top tabs on Mac and iPad, or from the feature menu shown at launch on iPhone.</p></div>
         <div class="feature-grid">
           <article class="feature reveal"><span class="feature-number">01</span><h3>ECG Mechanism</h3><p>Synchronize excitation, repolarization, the cardiac vector, lead-axis projection, and all 12 leads with a rotatable 3D heart. Break down one lead or compare two to see why each waveform takes its shape.</p></article>
-          <article class="feature reveal"><span class="feature-number">02</span><h3>Ion &amp; ECG</h3><p>Follow how sodium, calcium, and potassium currents and extracellular electrolytes alter the ventricular action potential, ECG intervals such as QRS and QT, and lead-specific waveform morphology.</p></article>
-          <article class="feature reveal"><span class="feature-number">03</span><h3>Compare with Normal</h3><p>Place Adult Normal beside patterns such as Right Bundle Branch Block on the same lead and timeline. Compare the changed intervals with their underlying activation sequence.</p></article>
-          <article class="feature reveal"><span class="feature-number">04</span><h3>Learn &amp; Quiz</h3><p>Identify a model from its waveform features, then review the key findings and compare them directly in the simulator.</p></article>
-          <article class="feature reveal"><span class="feature-number">05</span><h3>Normal, pediatric, and typical patterns</h3><p>Switch among adult and pediatric normal ECGs and simplified examples of atrial fibrillation, bundle branch block, axis deviation, ventricular hypertrophy, and ST elevation.</p></article>
+          <article class="feature reveal"><span class="feature-number">02</span><h3>Ion &amp; ECG</h3><p>Adjust major ion currents and extracellular K⁺, ionized Ca²⁺, Na⁺, and H⁺ (pH). Watch the ventricular action potential and ECG while exploring changes from baseline and links to conditions. Cellular calculations are shown separately from whole-heart estimates.</p></article>
+          <article class="feature reveal"><span class="feature-number">03</span><h3>ECG &amp; Conditions</h3><p>Compare Adult Normal with a representative pattern in one lead or all 12 leads. A common time scale and explanations of the ECG features and their mechanisms help you see what changed—and why.</p></article>
+          <article class="feature reveal"><span class="feature-number">04</span><h3>Learn &amp; Quiz</h3><p>Identify a representative model from 12 leads and a rhythm strip. After answering, review the findings and their mechanisms, then explore them in the simulator.</p></article>
+          <article class="feature reveal"><span class="feature-number">05</span><h3>Conditions and physiological differences</h3><p>Explore illustrative bundle block, atrial fibrillation, LVH strain, and regional ST elevation, alongside a normal child around age five, fever-related sinus tachycardia, and a higher-BMI body-habitus reference.</p></article>
           <article class="feature reveal"><span class="feature-number">06</span><h3>Slow playback and stepping</h3><p>Slow time to 0.05×, pause, scrub, or step by 10 ms. Manage visible structures and heart opacity from one display panel.</p></article>
-          <article class="feature reveal"><span class="feature-number">07</span><h3>Mac, iPhone, and iPad</h3><p>Use the wider overview on Mac and iPad, or keep the 3D heart, explanation, and waveform together on iPhone. The interface supports 10 major languages.</p></article>
+          <article class="feature reveal"><span class="feature-number">07</span><h3>Mac, iPhone, and iPad</h3><p>Larger text and controls, with clearer layouts throughout. On iPhone, use the feature menu and back button, and keep the ECG visible while adjusting ions. The interface supports 10 languages, including Japanese and English.</p></article>
         </div>
       </div>
     </section>
@@ -64,8 +64,8 @@
         <div class="section-head reveal"><p class="eyebrow">In the app</p><h2 class="section-title">3D, explanation, and waveform in one view.</h2></div>
         <div class="screenshot-grid">
           <figure class="shot reveal"><img src="/assets/images/ecg-vector/en/mac-simulation.jpg" alt="ECG Vector for Mac showing the 3D heart, lead axis, and synchronized waveform" width="1600" height="1000" loading="lazy"><figcaption>Mac — synchronize the 3D heart with the selected lead</figcaption></figure>
-          <figure class="shot portrait reveal"><img src="/assets/images/ecg-vector/en/ipad-breakdown.jpg" alt="ECG Vector for iPad showing how ion-current changes affect the action potential and ECG" width="900" height="1200" loading="lazy"><figcaption>iPad — from ion currents to action potential, QT, and ECG</figcaption></figure>
-          <figure class="shot reveal"><img src="/assets/images/ecg-vector/en/iphone-twelve-leads.jpg" alt="ECG Vector for iPhone comparing Right Bundle Branch Block with Adult Normal" width="1400" height="644" loading="lazy"><figcaption>iPhone — compare a typical pattern with Adult Normal</figcaption></figure>
+          <figure class="shot portrait reveal"><img src="/assets/images/ecg-vector/en/ipad-breakdown.jpg" alt="Ion &amp; ECG on iPad showing increased late sodium current, action-potential and QT changes, and links to conditions" width="900" height="1200" loading="lazy"><figcaption>iPad — adjust ions, compare with baseline, and explore conditions</figcaption></figure>
+          <figure class="shot reveal"><img src="/assets/images/ecg-vector/en/iphone-twelve-leads.jpg" alt="ECG &amp; Conditions on iPhone comparing Right Bundle Branch Block with Adult Normal and explaining the findings" width="1400" height="647" loading="lazy"><figcaption>iPhone — compare waveforms and learn what changed and why</figcaption></figure>
         </div>
       </div>
     </section>
@@ -74,7 +74,7 @@
       <div class="container">
         <div class="split">
           <article class="info-card reveal"><p class="eyebrow">Free</p><h3>Try every core workspace</h3><p>Use Adult Normal and Right Bundle Branch Block, all 12 standard ECG leads, fixed standard electrode positions, comparison and quiz samples, favorites, and four guided Ion &amp; ECG examples.</p></article>
-          <article class="info-card reveal"><p class="eyebrow">ECG Vector Pro</p><h3>One purchase, broader exploration</h3><p>This is not a subscription. Unlock free adjustment of ion currents and electrolytes with synchronized 12-lead response, pediatric and other clinical patterns, custom leads, electrode editing and misplacement presets, and the complete comparison and quiz libraries.</p></article>
+          <article class="info-card reveal"><p class="eyebrow">ECG Vector Pro</p><h3>One purchase, broader exploration</h3><p>This is not a subscription. Unlock free adjustment of ion currents, extracellular ions, and pH with synchronized 12-lead response, pediatric and other condition examples, custom leads, electrode editing and misplacement presets, and the complete comparison and quiz libraries.</p></article>
         </div>
         <div class="button-row"><a class="button primary" href="https://apps.apple.com/app/ecg-vector/id6798066790">Download on the App Store <span aria-hidden="true">↗</span></a><a class="button" href="/en/apps/ecg-vector/support/">Support</a><a class="button" href="/en/apps/ecg-vector/privacy/">Privacy Policy</a></div>
       </div>

diff --git a/en/index.html b/en/index.html
@@ -79,7 +79,7 @@
 
           <a class="app-card reveal" href="/en/apps/ecg-vector/">
             <div class="card-top"><img class="app-icon" src="/assets/images/ecg-vector/icon.png" alt="" width="512" height="512"><div><p class="card-kicker">Mac · iPhone · iPad</p><h3 class="card-title">ECG Vector</h3></div></div>
-            <p class="card-copy">Connect a 3D heart and 12-lead ECG with ion-current effects on action potentials and QT, comparison with normal, and waveform quizzes across four main workspaces.</p>
+            <p class="card-copy">Connect a 3D heart and 12-lead ECG with ions, pH, and action potentials. Compare representative patterns, learn the mechanisms behind their features, and check your understanding with quizzes.</p>
             <span class="card-link">Learn more <span aria-hidden="true">↗</span></span>
           </a>
 

diff --git a/ja/index.html b/ja/index.html
@@ -85,7 +85,7 @@
               <img class="app-icon" src="/assets/images/ecg-vector/icon.png" alt="" width="512" height="512">
               <div><p class="card-kicker">Mac · iPhone · iPad</p><h3 class="card-title">ECG Vector</h3></div>
             </div>
-            <p class="card-copy">3D心臓と12誘導波形に加え、イオン電流から活動電位・QT時間への変化、正常との比較、学習クイズを4つの主要画面でつなげて学びます。</p>
+            <p class="card-copy">3D心臓と12誘導波形、イオン・pHと活動電位、病態ごとの波形の特徴と理由をつなげて学び、クイズで理解を確認する心電図教育シミュレータです。</p>
             <span class="card-link">詳しく見る <span aria-hidden="true">↗</span></span>
           </a>
 
